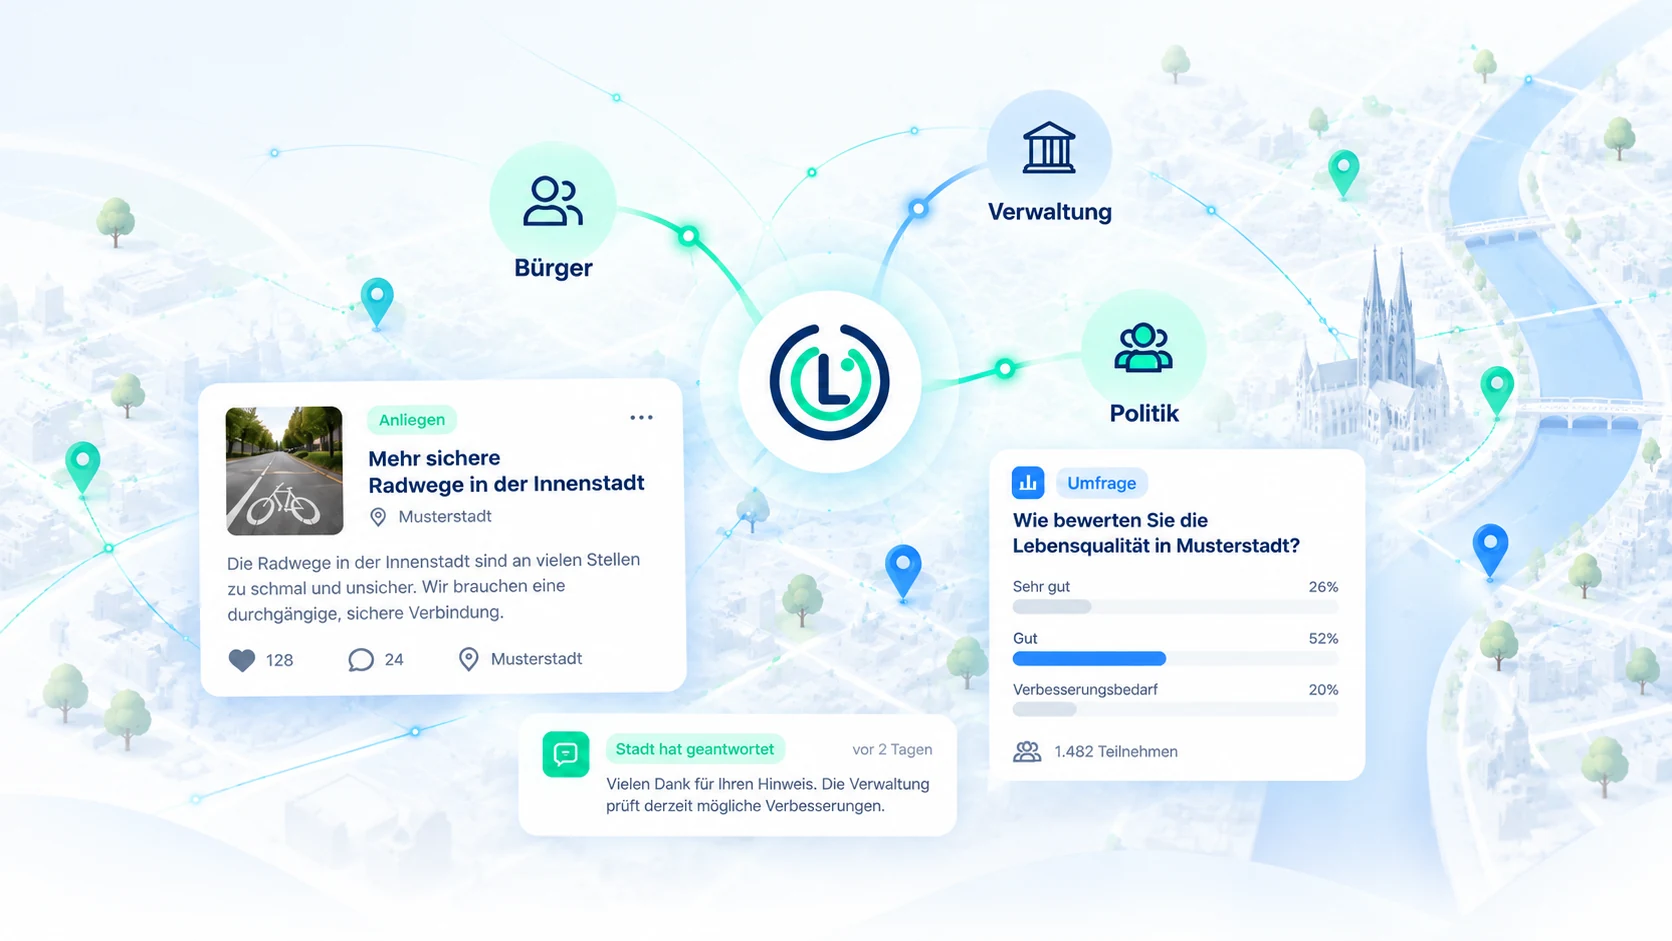
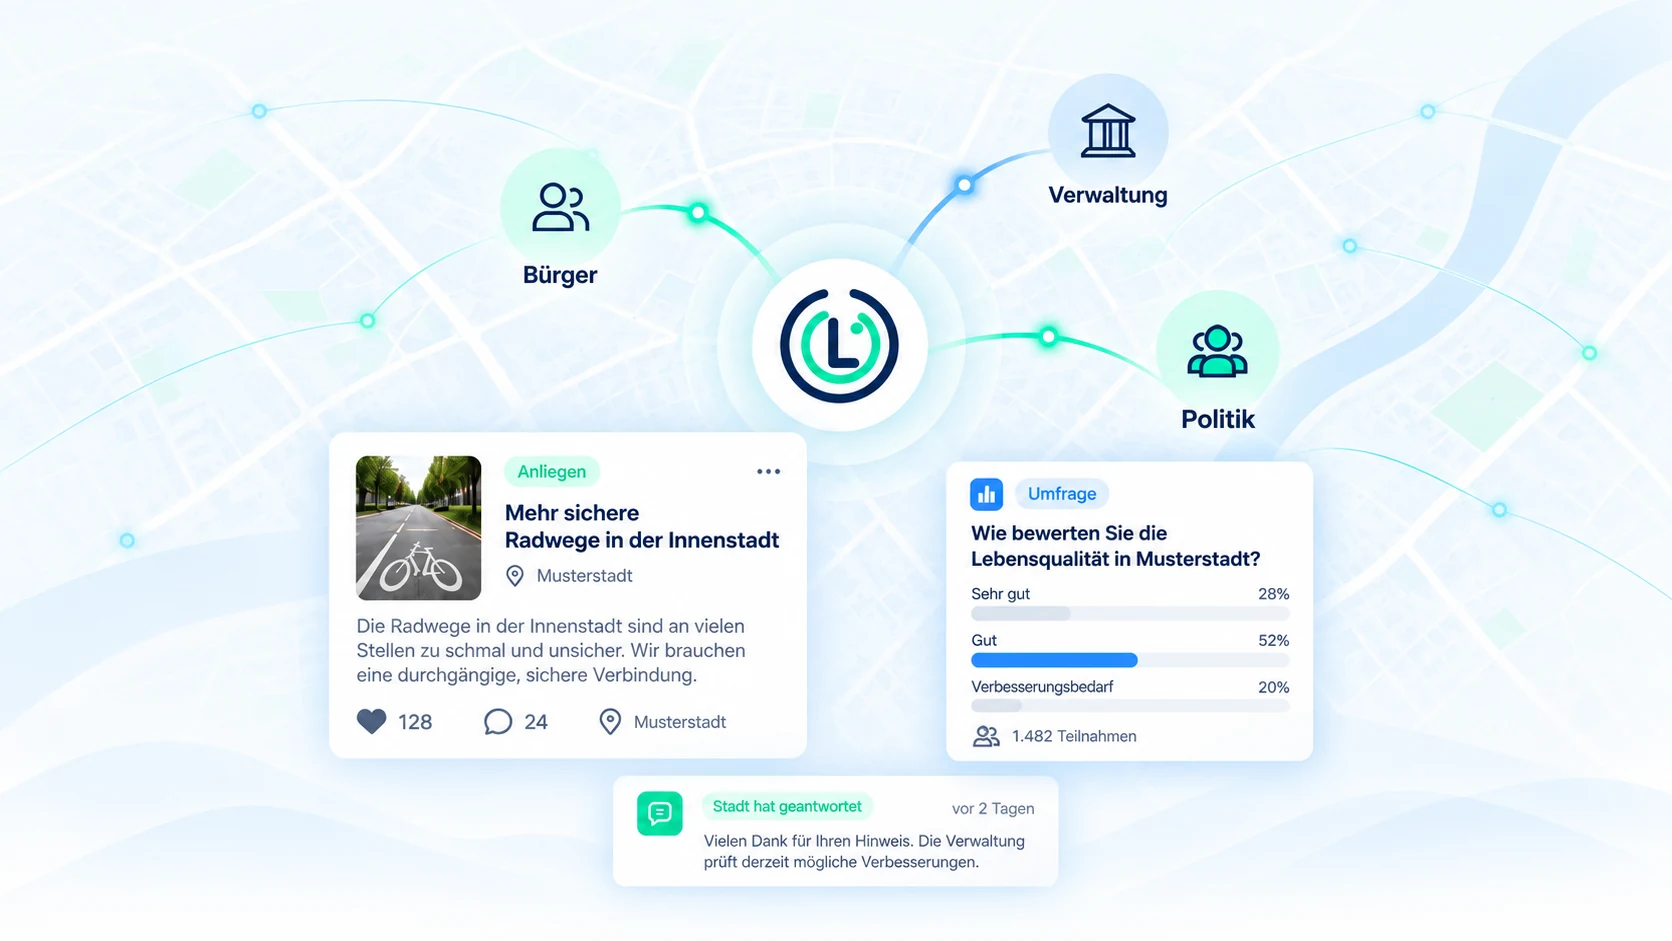
Desktop-Grafik austauschen und Layout auf breiten Bildschirmen weiten
- Neues Key-Visual im Querformat eingesetzt (gleiche Masse 1672x941,
  daher keine Anpassung im Markup noetig)
- Inhaltsbreite waechst mit dem Fenster: 1280px ab 1280er-Fenstern,
  1400px ab 1600, 1480px ab 1800 - vorher durchgehend 1160px
- Mehr vertikale Luft auf grossen Bildschirmen: Sektionsabstaende von
  6rem auf 7rem beziehungsweise 8rem
- Showcase-Mockup und Galerie duerfen mitwachsen, gedeckelt bei 1400px
  (native Breite der Screenshots, darueber wuerden sie unscharf)
- Sicherheitsnetz fuer die Einblend-Animation: falls der Beobachter nicht
  ausloest, werden versteckte Elemente nach 2,5s eingeblendet

Claude-Session: https://claude.ai/code/session_01K334GKwfPgR9YNbPeDneBj

diff --git a/styles.css b/styles.css
@@ -1979,3 +1979,42 @@ h1, h2, h3, h4 {
   font-size: 0.9rem;
   color: var(--color-text-muted);
 }
+
+/* ============================================================
+   16. GROSSE BILDSCHIRME
+   Ab 1280px mehr Inhaltsbreite und mehr vertikale Luft, damit die
+   Sektionen auf breiten Monitoren nicht gedraengt in der Mitte kleben.
+   Bildbreiten sind bei 1400px gedeckelt – das ist die native Breite
+   der Screenshots, darueber wuerden sie unscharf.
+============================================================ */
+@media (min-width: 1280px) {
+  :root {
+    --container-max: 1280px;
+    --space-3xl: 5.25rem;
+    --space-4xl: 7rem;
+  }
+
+  .showcase-section .mockup,
+  .gallery {
+    max-width: 1240px;
+  }
+}
+
+@media (min-width: 1600px) {
+  :root {
+    --container-max: 1400px;
+    --space-3xl: 6rem;
+    --space-4xl: 8rem;
+  }
+
+  .showcase-section .mockup,
+  .gallery {
+    max-width: 1400px;
+  }
+}
+
+@media (min-width: 1800px) {
+  :root {
+    --container-max: 1480px;
+  }
+}

diff --git a/script.js b/script.js
@@ -343,6 +343,17 @@ function initScrollAnimations() {
     observer.observe(el);
   });
 
+  // Sicherheitsnetz: Falls der Beobachter aus irgendeinem Grund nicht
+  // ausloest, werden alle noch versteckten Elemente nach kurzer Zeit
+  // eingeblendet. Inhalte duerfen nie dauerhaft unsichtbar bleiben.
+  window.setTimeout(function () {
+    targets.forEach(function (el) {
+      if (!el.classList.contains('is-visible')) {
+        el.classList.add('is-visible');
+      }
+    });
+  }, 2500);
+
   // Gestaffelte Animation für Karten (Säulen + Funktions-Grid)
   document.querySelectorAll('.pillar, .func-card').forEach(function (card, index) {
     card.style.transitionDelay = ((index % 3) * 0.08) + 's';
